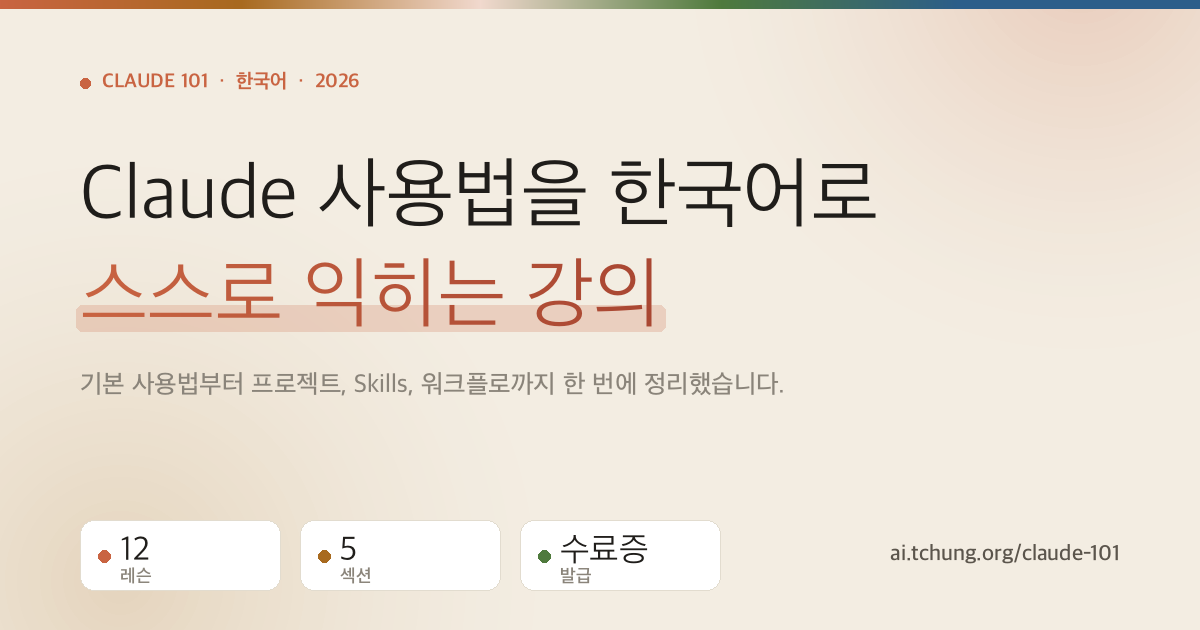
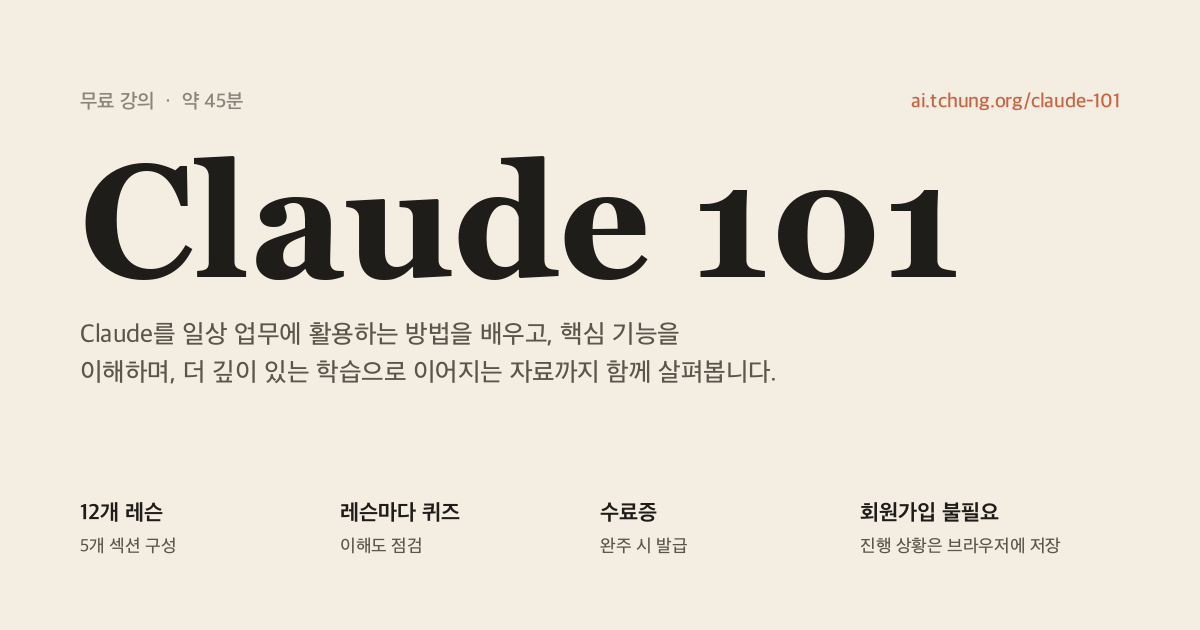
fix(og): redesign og.png to match the actual hero
The first version copied ai-terms' template verbatim (rainbow band,
soft blobs, two-line title with gradient highlight, three accent
pills). None of that exists on the Claude 101 hero — the actual
page is just a serif "Claude 101", a lead paragraph, and a 4-column
text meta strip on cream. The OG card was misrepresenting the site.

Rewrite make_og.py to mirror the hero 1:1: Georgia Bold for the
brand title (same family as the site's --serif stack), the
uppercase muted eyebrow, the real lead copy, and the four meta
pairs verbatim. Accent (#c96442) used only for the URL — same
restraint the site uses.

diff --git a/make_og.py b/make_og.py
@@ -2,136 +2,81 @@ from PIL import Image, ImageDraw, ImageFont
 
 W, H = 1200, 630
 
-# Palette from css/styles.css design tokens
+# Palette mirrors css/styles.css design tokens
 BG = (243, 237, 226)        # --bg #f3ede2 cream
-INK = (31, 29, 26)          # --ink #1f1d1a
-INK2 = (91, 85, 76)         # --ink-soft #5b554c
-INK3 = (138, 132, 122)      # --ink-mute #8a847a
-ACCENT = (201, 100, 66)     # --accent #c96442 terracotta
-ACCENT_DEEP = (168, 70, 50)
-ACCENT_SOFT = (241, 217, 206)  # --accent-soft #f1d9ce
-OK = (79, 122, 61)          # --ok #4f7a3d
-AMBER = (168, 106, 31)
-OCEAN = (44, 94, 138)
+INK = (31, 29, 26)           # --ink #1f1d1a
+INK_SOFT = (91, 85, 76)      # --ink-soft #5b554c
+INK_MUTE = (138, 132, 122)   # --ink-mute #8a847a
+ACCENT = (201, 100, 66)      # --accent #c96442 terracotta
+RULE = (226, 220, 207)       # --rule #e2dccf
 
-FONT_PATH = "/System/Library/Fonts/AppleSDGothicNeo.ttc"
-def font(size, weight="bold"):
-    idx = {"thin":0,"ultralight":1,"light":2,"regular":3,"medium":4,
-           "semibold":5,"bold":6,"extrabold":7,"heavy":8}[weight]
-    return ImageFont.truetype(FONT_PATH, size, index=idx)
+# Site stack: serif for headline, sans for Korean body
+SERIF_PATH = "/System/Library/Fonts/Supplemental/Georgia Bold.ttf"
+SANS_PATH = "/System/Library/Fonts/AppleSDGothicNeo.ttc"
+SANS_WEIGHTS = {"thin":0,"ultralight":1,"light":2,"regular":3,"medium":4,
+                "semibold":5,"bold":6,"extrabold":7,"heavy":8}
+
+def serif(size):
+    return ImageFont.truetype(SERIF_PATH, size)
+
+def sans(size, weight="regular"):
+    return ImageFont.truetype(SANS_PATH, size, index=SANS_WEIGHTS[weight])
 
 img = Image.new("RGB", (W, H), BG)
 draw = ImageDraw.Draw(img)
 
-# Soft radial blobs — accent top-right, amber bottom-left
-base = img.convert("RGBA")
-def add_blob(b, cx, cy, r, color, peak=80):
-    layer = Image.new("RGBA", (W, H), (0,0,0,0))
-    ld = ImageDraw.Draw(layer)
-    for i in range(40, 0, -1):
-        ratio = i/40
-        a = int(peak*(1-ratio)**1.6)
-        rr = int(r*ratio)
-        ld.ellipse([cx-rr, cy-rr, cx+rr, cy+rr], fill=(*color, a))
-    return Image.alpha_composite(b, layer)
-
-base = add_blob(base, 1080, -40, 420, ACCENT, 65)
-base = add_blob(base, 120, 580, 460, AMBER, 50)
-img = base.convert("RGB")
-draw = ImageDraw.Draw(img)
-
-# Top warm band: accent → amber → cream → ok → ocean
-band_colors = [ACCENT, AMBER, ACCENT_SOFT, OK, OCEAN]
-seg_w = W / len(band_colors)
-for i, c in enumerate(band_colors):
-    x0 = int(i*seg_w); x1 = int((i+1)*seg_w)
-    for x in range(x0, x1):
-        if i < len(band_colors)-1:
-            t = (x - x0) / (x1 - x0)
-            nxt = band_colors[min(i+1, len(band_colors)-1)]
-            r = int(c[0]*(1-t) + nxt[0]*t)
-            g = int(c[1]*(1-t) + nxt[1]*t)
-            b = int(c[2]*(1-t) + nxt[2]*t)
-            draw.line([(x,0),(x,8)], fill=(r,g,b))
-        else:
-            draw.line([(x,0),(x,8)], fill=c)
-
 PAD_X = 80
+PAD_TOP = 90
 
-# Kicker
-kicker_font = font(20, "bold")
-draw.ellipse([PAD_X, 78, PAD_X+10, 88], fill=ACCENT)
-draw.text((PAD_X+22, 70), "CLAUDE 101  ·  한국어  ·  2026", fill=ACCENT, font=kicker_font)
+# Eyebrow — matches .hero .eyebrow (uppercase, muted, tracked)
+eyebrow_font = sans(20, "medium")
+eyebrow = "무료 강의  ·  약 45분"
+draw.text((PAD_X, PAD_TOP), eyebrow.upper(), fill=INK_MUTE, font=eyebrow_font)
 
-# Main title — two lines
-title_font = font(78, "heavy")
-line1 = "Claude 사용법을 한국어로"
-line2 = "스스로 익히는 강의"
+# Brand title — big serif, like the site's <h1>
+title_font = serif(160)
+title = "Claude 101"
+draw.text((PAD_X, PAD_TOP + 40), title, fill=INK, font=title_font)
 
-y = 150
-draw.text((PAD_X, y), line1, fill=INK, font=title_font)
+# Lead — matches .hero p.lead
+lead_font = sans(26, "regular")
+lead_y = PAD_TOP + 230
+lead_line1 = "Claude를 일상 업무에 활용하는 방법을 배우고, 핵심 기능을"
+lead_line2 = "이해하며, 더 깊이 있는 학습으로 이어지는 자료까지 함께 살펴봅니다."
+draw.text((PAD_X, lead_y),       lead_line1, fill=INK_SOFT, font=lead_font)
+draw.text((PAD_X, lead_y + 38),  lead_line2, fill=INK_SOFT, font=lead_font)
 
-# Soft accent highlight behind line 2
-y2 = y + 100
-bbox = draw.textbbox((PAD_X, y2), line2, font=title_font)
-hl = Image.new("RGBA", (W, H), (0,0,0,0))
-hld = ImageDraw.Draw(hl)
-hld.rounded_rectangle([bbox[0]-4, bbox[3]-22, bbox[2]+4, bbox[3]+4],
-                      radius=6, fill=(201, 100, 66, 55))
-img = Image.alpha_composite(img.convert("RGBA"), hl).convert("RGB")
-draw = ImageDraw.Draw(img)
+# Meta strip — mirrors the four-pair .hero .meta block
+# Pairs: bold label (ink) + sublabel (ink-soft)
+meta_y = H - 130
+label_font = sans(22, "bold")
+sub_font = sans(18, "regular")
 
-# Gradient text for line 2: accent → deeper accent
-def gradient_text(xy, text, font_obj, c0, c1):
-    bb = draw.textbbox(xy, text, font=font_obj)
-    tw = bb[2]-bb[0]; th = bb[3]-bb[1]
-    if tw <= 0 or th <= 0:
-        draw.text(xy, text, fill=c0, font=font_obj); return
-    mask = Image.new("L", (tw+20, th+40), 0)
-    md = ImageDraw.Draw(mask)
-    md.text((0, 0), text, font=font_obj, fill=255)
-    grad = Image.new("RGB", (tw+20, th+40), c0)
-    gd = ImageDraw.Draw(grad)
-    for i in range(tw+20):
-        t = i/max(1, tw+19)
-        r = int(c0[0]*(1-t)+c1[0]*t)
-        g = int(c0[1]*(1-t)+c1[1]*t)
-        b = int(c0[2]*(1-t)+c1[2]*t)
-        gd.line([(i,0),(i,th+40)], fill=(r,g,b))
-    img.paste(grad, (xy[0], xy[1]), mask)
+meta_pairs = [
+    ("12개 레슨",     "5개 섹션 구성"),
+    ("레슨마다 퀴즈", "이해도 점검"),
+    ("수료증",        "완주 시 발급"),
+    ("회원가입 불필요", "진행 상황은 브라우저에 저장"),
+]
 
-gradient_text((PAD_X, y2), line2, title_font, ACCENT, ACCENT_DEEP)
-draw = ImageDraw.Draw(img)
+# Compute even spacing within the safe area
+COL_W = 240
+COL_GAP = 20
+total_w = len(meta_pairs) * COL_W + (len(meta_pairs) - 1) * COL_GAP
+# Anchor the strip flush-left at PAD_X so it lines up with title
+col_x = PAD_X
+for label, sub in meta_pairs:
+    draw.text((col_x, meta_y),       label, fill=INK, font=label_font)
+    draw.text((col_x, meta_y + 36),  sub,   fill=INK_SOFT, font=sub_font)
+    col_x += COL_W + COL_GAP
 
-# Subtitle
-sub_font = font(26, "regular")
-sub = "기본 사용법부터 프로젝트, Skills, 워크플로까지 한 번에 정리했습니다."
-draw.text((PAD_X, y2+120), sub, fill=INK3, font=sub_font)
-
-# Bottom row: stats and URL
-bot_y = H - 110
-stat_font_n = font(34, "heavy")
-stat_font_l = font(18, "medium")
-
-def pill(x, y, n, label, accent):
-    pill_w = 200
-    pill_h = 70
-    draw.rounded_rectangle([x, y, x+pill_w, y+pill_h], radius=14,
-                           fill=(255,255,255), outline=(226, 220, 207), width=1)
-    draw.ellipse([x+18, y+30, x+30, y+42], fill=accent)
-    draw.text((x+40, y+10), n, fill=INK, font=stat_font_n)
-    draw.text((x+40, y+45), label, fill=INK3, font=stat_font_l)
-
-pill(PAD_X,      bot_y, "12",    "레슨",   ACCENT)
-pill(PAD_X+220,  bot_y, "5",     "섹션",   AMBER)
-pill(PAD_X+440,  bot_y, "수료증", "발급",   OK)
-
-# URL right-aligned
-url_font = font(22, "semibold")
+# Tiny terracotta dot + URL — bottom right, restrained
+url_font = sans(20, "semibold")
 url = "ai.tchung.org/claude-101"
-ubb = draw.textbbox((0,0), url, font=url_font)
-uw = ubb[2]-ubb[0]
-draw.text((W-PAD_X-uw, bot_y+22), url, fill=INK2, font=url_font)
+ubb = draw.textbbox((0, 0), url, font=url_font)
+uw = ubb[2] - ubb[0]
+url_y = 90  # mirror the eyebrow's vertical position, right-aligned
+draw.text((W - PAD_X - uw, url_y), url, fill=ACCENT, font=url_font)
 
 img.save("/Users/tchung/claude/claude-101/og.png", "PNG", optimize=True)
 print("ok", img.size)